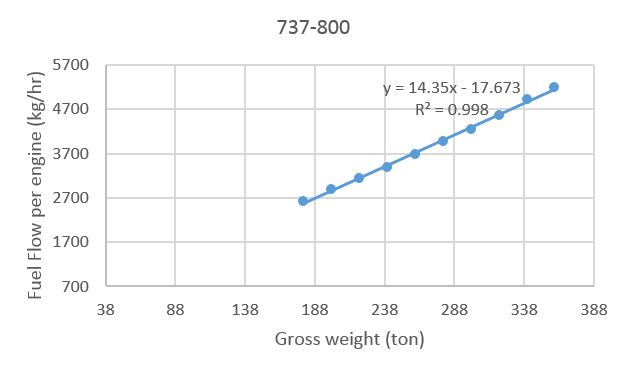
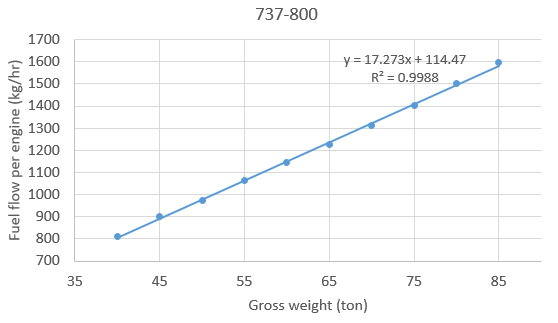
Fix incorrect table.

diff --git a/doc/design_document.html b/doc/design_document.html
@@ -393,17 +393,16 @@
 			<script>
 				setTable('table-a1-738', 
 				`Gross weight (ton),Fuel flow per engine (kg/hr)
-				360,5186.5
-				340,4917
-				320,4554
-				300,4240
-				280,3976
-				260,3678
-				240,3392
-				220,3131
-				200,2878.5
-				180,2616.5
-				160,2356`);
+				85,1596.5
+				80,1503
+				75,1405
+				70,1314
+				65,1224.5
+				60,1145
+				55,1065.5
+				50,973
+				45,901
+				40,813`);
 			</script>
 
 			<p>Data for 777-200LR</p>			
